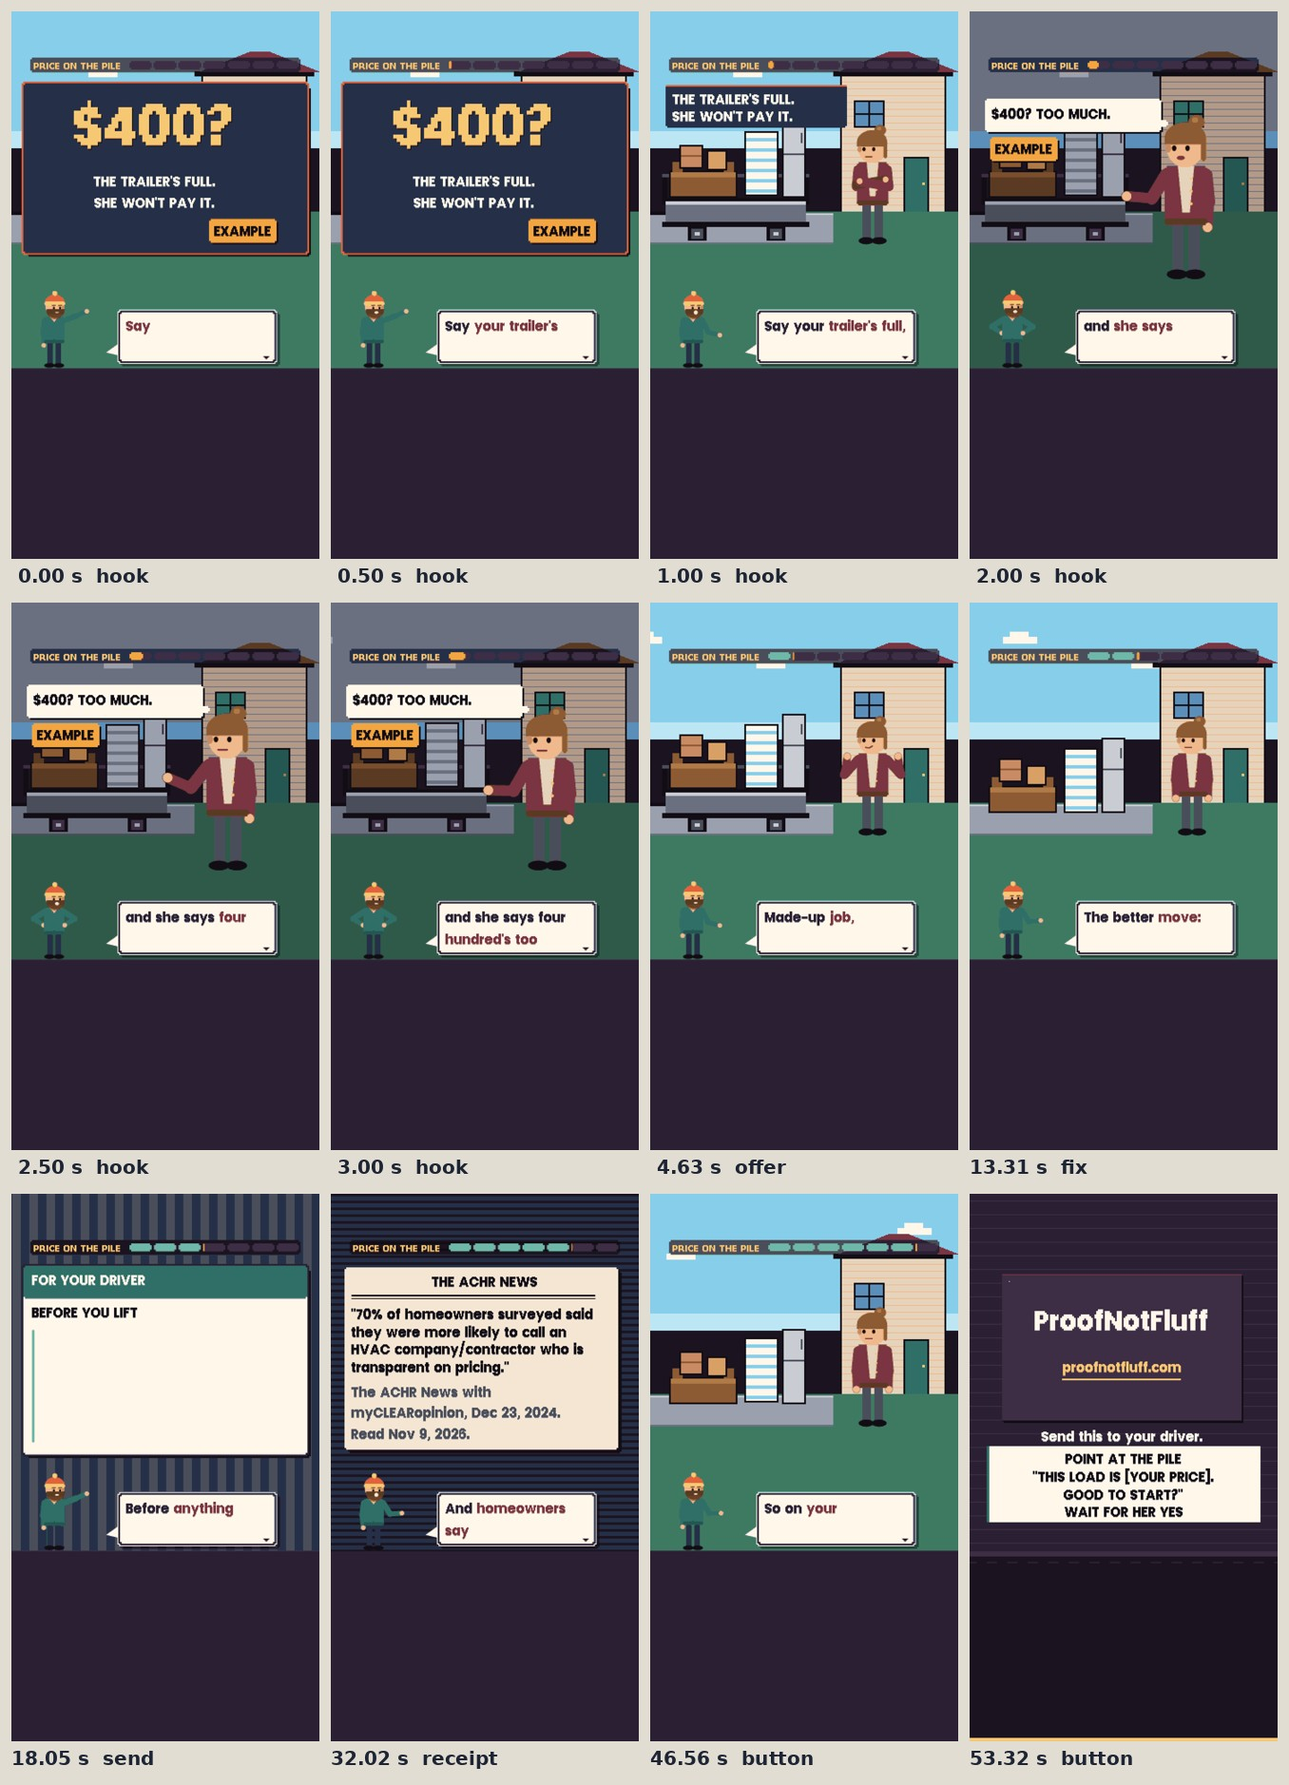
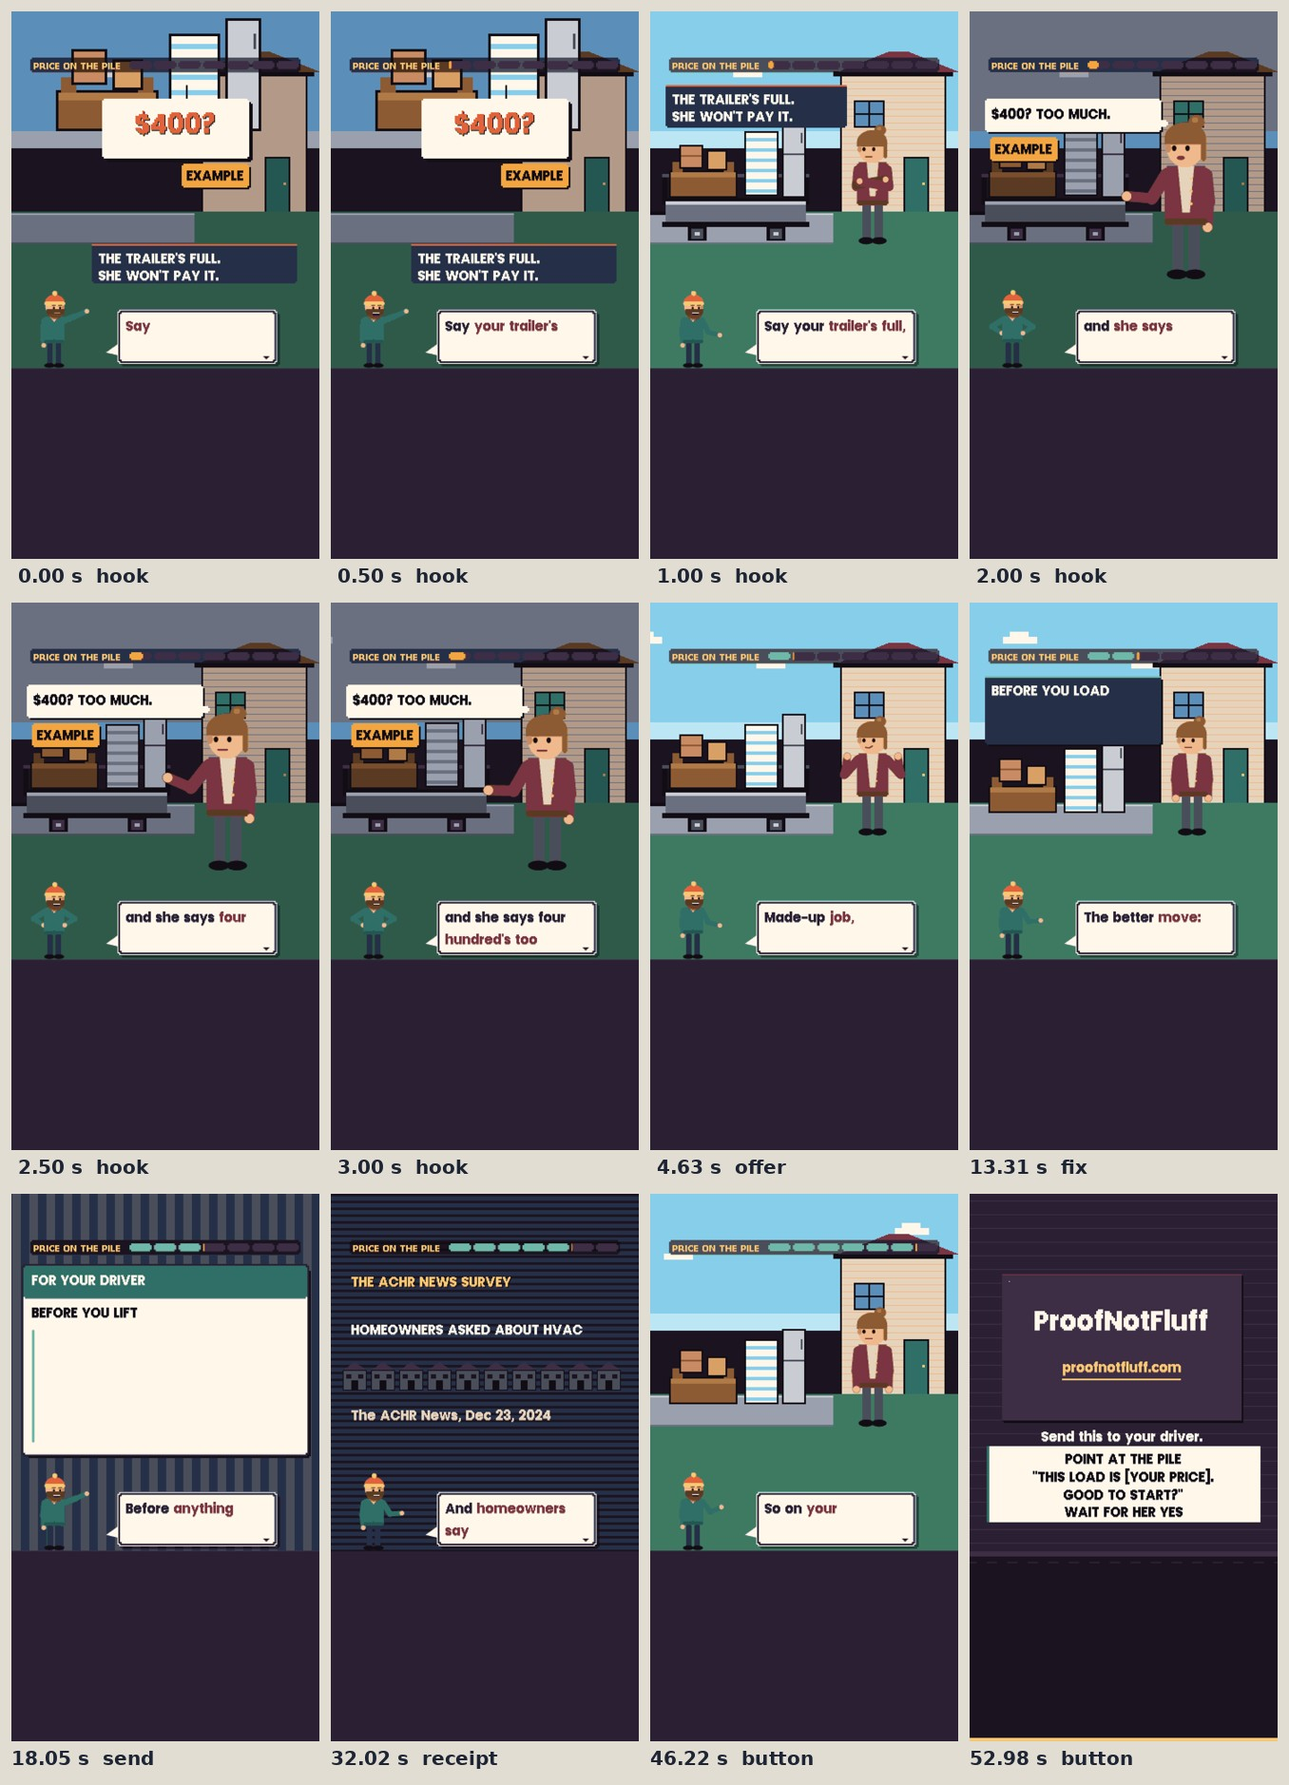
studio: price-on-the-pile fix round 1 (cover, plates, rewind label, send card order, survey as ten houses, no slot machine); take 5 re-roll (156 wpm)
Claude-Session: https://claude.ai/code/session_01XMn4eGCuTkqf6oHmaHm8Hx

diff --git a/video/studio/videos/2026-11-29-price-on-the-pile/04_scene/scene.js b/video/studio/videos/2026-11-29-price-on-the-pile/04_scene/scene.js
@@ -98,9 +98,17 @@ window.SCENE = {
     /* arms folded; on "four" her bubble with the made-up $400 and its EXAMPLE tag ---- */
     hook: (k, T) => {
       const d = px(k), tShop = 0.9, tFour = Math.max(tShop + 0.6, wordT(k, 'hook', /^four/i, 2.0) - 0.25);
-      drive(k, d); trailer(k, d, true);
+      drive(k, d); if (T >= tShop) trailer(k, d, true);
       if (T < tShop) {
-        k.coverBoard({hero: '$400?', lines: ["THE TRAILER'S FULL.", "SHE WON'T PAY IT."], example: true, y: 252, colors: {panel: '#253048', rim: '#E2633B', hero: GOLD}});
+        /* design r0: the cover is this lesson's own picture, the pile up close with its price tag, not a board */
+        d.P(0, 0, 360, 417, 'rgba(18,13,20,0.25)');
+        junk(k, d, 2, 44, (x, y, w, h, c) => d.P(40 + x * 3, 104 + y * 3, w * 3, h * 3, c));
+        k.shape(k.rectPts(612, 258, 6, 60, 0), {fill: INK, line: false});
+        k.shape(k.rectPts(330, 318, 516, 210, 0), {fill: INK, line: false}); k.shape(k.rectPts(318, 306, 516, 210, 0), {fill: CREAM, line: false});
+        k.text('$400?', 576, 330, {size: 160, color: RED, align: 'center', drop: INK});
+        k.exampleTag(834, 534, {right: true});
+        k.shape(k.rectPts(282, 816, 720, 138, 0), {fill: '#253048', line: false}); k.shape(k.rectPts(282, 816, 720, 6, 0), {fill: RED, line: false});
+        k.text("THE TRAILER'S FULL.", 306, 834, {size: 52, color: CREAM}); k.text("SHE WON'T PAY IT.", 306, 894, {size: 52, color: CREAM});
         return host(k, 'point');
       }
       k.cut(tShop);
@@ -127,7 +135,7 @@ window.SCENE = {
       k.client(780, 810, {role: 'homeowner', pose: 'argue', mood: 'smug', scale: 0.95, talk: T >= tTwo && T < tTwo + 1.2});
       const b = bubble(k, d, "I'LL GIVE YOU $200.", tTwo, 96);
       if (b) k.exampleTag(72, b.y + b.h + 18);
-      if (T >= tDump) k.slam('DUMP IT BACK?', 540, 560, tDump, {size: 80, color: GOLD, align: 'center', drop: INK, from: 0.4});
+      if (T >= tDump) stampBox(k, 'DUMP IT BACK?', 540, 480, tDump, {color: GOLD, bg: WINE, size: 66, freeze: 4});   /* render critic r0: on a plate */
       return host(k, T >= tDump ? 'shrug' : null);
     },
 
@@ -137,7 +145,10 @@ window.SCENE = {
       k.cut(t0);
       drive(k, d); pile(k, d);
       k.client(780, 810, {role: 'homeowner', pose: 'stand', mood: 'calm', scale: 0.95});
-      if (T >= tSay) { k.slam('SAY THE PRICE', 540, 300, tSay, {size: 80, color: GOLD, align: 'center', drop: INK, from: 0.4}); k.slam('AT THE PILE', 540, 400, tSay + 0.3, {size: 80, color: GOLD, align: 'center', drop: INK, from: 0.4}); }
+      /* viewer r0 and render critic r0: the rewind said on screen, the line on a plate left of the house */
+      k.shape(k.rectPts(60, 264, 618, 240, 0), {fill: INK, line: false}); k.shape(k.rectPts(54, 258, 618, 240, 0), {fill: '#253048', line: false}); k.shape(k.rectPts(54, 258, 618, 6, 0), {fill: TEAL, line: false});
+      k.text('BEFORE YOU LOAD', 78, 276, {size: 52, color: CREAM});
+      if (T >= tSay) { k.slam('SAY THE PRICE', 78, 342, tSay, {size: 66, color: GOLD, drop: INK, from: 0.4}); k.slam('AT THE PILE', 78, 418, tSay + 0.3, {size: 66, color: GOLD, drop: INK, from: 0.4}); }
       return host(k, T >= tSay ? 'point' : null);
     },
 
@@ -145,7 +156,7 @@ window.SCENE = {
     /* stripes behind it drift); no EXAMPLE tag on it (no made-up number on the card) ---- */
     send: (k, T) => {
       const t0 = k.S('send'), d = px(k), w = (re, dd) => wordT(k, 'send', re, dd) - 0.2;
-      const on = [w(/^point/i, 5.5), w(/^this$/i, 7.0), w(/^this$/i, 7.0) + 0.6, w(/^good/i, 8.2), w(/^wait/i, 9.4)];
+      const tThis = w(/^\W*this\b/i, 7.0), on = [w(/^point/i, 5.5), tThis, tThis + 0.6, Math.max(tThis + 0.7, w(/^\W*good/i, 8.2)), w(/^wait/i, 9.4)];   /* send r0, design r0: reading order */
       d.P(0, 0, 360, 417, '#2B3A4E'); { const so = d.F % 20; for (let x = so - 20; x < 360; x += 20) d.P(Math.max(0, x), 0, Math.max(0, Math.min(x + 10, 360) - Math.max(0, x)), 417, '#34465C'); }
       k.cut(t0);
       const c = k.sendCard({at: t0, who: 'FOR YOUR DRIVER', title: 'BEFORE YOU LIFT', lines: CARD, linesOn: on});
@@ -160,7 +171,7 @@ window.SCENE = {
       const so = (d.F >> 1) % 24;
       P(12, 84, 336, 90, INK); P(10, 82, 336, 90, DTEAL); for (let x = so - 24; x < 346; x += 24) P(Math.max(10, x), 82, 4, 90, '#357C73');
       const sh = T >= tFight && T < tFight + 0.25 ? ((d.F % 2) ? 2 : -2) : 0;
-      P(12 + sh, 184, 336, 90, INK); P(10 + sh, 182, 336, 90, WINE); for (let x = 346 - so; x > 10; x -= 24) P(Math.max(10, x), 182, 4, 90, '#8A3E4C');
+      if (T >= tPrice) { P(12 + sh, 184, 336, 90, INK); P(10 + sh, 182, 336, 90, WINE); for (let x = 346 - so; x > 10; x -= 24) P(Math.max(10, x), 182, 4, 90, '#8A3E4C'); }   /* design r0: no empty panel */
       k.text('UP FRONT', 72, 270, {size: 52, color: CREAM});
       k.text('A YES = A DEAL', 72, 360, {size: 80, color: GOLD, drop: INK});
       if (T >= tPrice) k.text('AFTER THE WORK', 72 + sh * 3, 570, {size: 52, color: CREAM});
@@ -168,26 +179,29 @@ window.SCENE = {
       return host(k, T >= tFight ? 'shrug' : null);
     },
 
-    /* ---- receipt: the ACHR News line on a clipping; on "Seventy" a plain cut to the slot machine (data.js) ---- */
+    /* ---- receipt (viewer r0, design r0): no clipping and no slot machine; the survey's own header, ten houses, seven ---- */
+    /* light up on "Seventy" with 70% (data.js), the line it measured, the source tag held the whole time ---- */
     receipt: (k, T) => {
-      const t0 = k.S('receipt'), d = px(k), n = k.data.numbers.pct, tSev = wordT(k, 'receipt', /^seventy/i, 6.0) - 0.3;
+      const t0 = k.S('receipt'), d = px(k), n = k.data.numbers.pct, tSev = wordT(k, 'receipt', /^seventy/i, 6.0) - 0.3, {P} = d;
+      const lit = Math.round(Number(n.value != null ? n.value : parseFloat(n.shown)) / 10);
+      k.cut(t0);
+      P(0, 0, 360, 417, '#253048'); for (let y = (d.F >> 2) % 8 - 8; y < 417; y += 8) P(0, Math.max(0, y), 360, 3, NIGHT);
       if (T < tSev) {
-        k.cut(t0);
-        d.P(0, 0, 360, 417, '#253048'); for (let y = (d.F >> 2) % 8 - 8; y < 417; y += 8) d.P(0, Math.max(0, y), 360, 3, NIGHT);
-        const up = d.ease(t0, 6, 30);
-        k.shape(k.rectPts(60, 270 + up * 3, 960, 640, 0), {fill: INK, line: false}); k.shape(k.rectPts(48, 258 + up * 3, 960, 640, 0), {fill: '#E4E0D6', line: false});
-        k.text('THE ACHR NEWS', 540, 276 + up * 3, {size: 66, color: INK, align: 'center'});
-        k.shape(k.rectPts(72, 354 + up * 3, 856, 6, 0), {fill: INK, line: false}); k.shape(k.rectPts(72, 366 + up * 3, 856, 3, 0), {fill: INK, line: false});
-        const ql = k.wrap('"' + n.shown + ' of homeowners surveyed said they were more likely to call an HVAC company/contractor who is transparent on pricing."', {size: 52}, 850);
-        ql.forEach((s, i) => k.text(s, 72, 390 + i * 62 + up * 3, {size: 52, color: INK}));
-        k.sourceTag('The ACHR News with myCLEARopinion, Dec 23, 2024. Read Nov 9, 2026.', 72, 390 + ql.length * 62 + 24 + up * 3, {color: SLATE});
-        return host(k);
+        k.text('THE ACHR NEWS SURVEY', 72, 276, {size: 66, color: GOLD, drop: INK});
+        k.text('HOMEOWNERS ASKED ABOUT HVAC', 72, 444, {size: 52, color: CREAM});
+      } else {
+        k.slam(n.shown, 540, 262, tSev, {size: 150, color: GOLD, drop: INK, from: 0.3, align: 'center'});
+        k.text('MORE LIKELY TO CALL', 72, 444, {size: 52, color: CREAM});
+        k.text('THE ONE UPFRONT ON PRICE', 72, 504, {size: 52, color: CREAM});
       }
-      k.cut(tSev);
-      const sym = String(n.shown).split('');
-      const tPct = wordT(k, 'receipt', /^percent/i, 7.0) - 0.2;
-      k.sets.slots({t0: tSev, stops: [tSev + 0.35, tSev + 0.6, Math.max(tSev + 0.85, tPct)], symbols: sym, label: 'MORE LIKELY TO CALL'});
-      return host(k, 'point');
+      for (let i = 0; i < 10; i++) {
+        const x = 14 + i * 33, y = 196, on = T >= tSev + i * 0.08 && i < lit;
+        P(x, y + 10, 28, 24, INK); P(x + 1, y + 11, 26, 22, on ? '#E6D3BC' : SLATE);
+        for (let r = 0; r < 10; r++) P(x + 14 - r * 1.4, y + r, r * 2.8, 1, on ? WINE : '#3D2E45');
+        P(x + 10, y + 22, 8, 12, INK); P(x + 4, y + 15, 6, 5, on ? GOLD : NIGHT); P(x + 18, y + 15, 6, 5, on ? GOLD : NIGHT);
+      }
+      k.sourceTag('The ACHR News, Dec 23, 2024', 72, 744, {color: SAND});
+      return host(k, T >= tSev ? 'point' : null);
     },
 
     /* ---- button: the drive before the job: the pile on the ground, the trailer empty; the two choices; the stamp ---- */
@@ -196,9 +210,9 @@ window.SCENE = {
       k.cut(t0);
       drive(k, d); pile(k, d);
       k.client(780, 810, {role: 'homeowner', pose: 'stand', mood: 'calm', scale: 0.95});
-      const card = (s, x, at, c) => { if (T < at) return; const up = d.ease(at, 4, 8); k.shape(k.rectPts(x + 6, 276 + up * 3, 432, 96, 0), {fill: INK, line: false}); k.shape(k.rectPts(x, 270 + up * 3, 432, 96, 0), {fill: c, line: false}); k.text(s, x + 216, 286 + up * 3, {size: 52, color: INK, align: 'center'}); };
+      const card = (s, x, at, c) => { if (T < at) return; const up = d.ease(at, 4, 8); k.shape(k.rectPts(x + 6, 396 + up * 3, 432, 96, 0), {fill: INK, line: false}); k.shape(k.rectPts(x, 390 + up * 3, 432, 96, 0), {fill: c, line: false}); k.text(s, x + 216, 406 + up * 3, {size: 52, color: INK, align: 'center'}); };
       card('ON THE PILE', 66, tPile, TEAL); card('ON THE TRAILER', 534, tTr, ORANGE);
-      if (T >= tDoes) stampBox(k, 'WHERE DOES YOUR PRICE GO?', 540, 600, tDoes, {color: GOLD, bg: WINE, size: 52, freeze: 4});
+      if (T >= tDoes) stampBox(k, 'WHERE DOES YOUR PRICE GO?', 540, 258, tDoes, {color: GOLD, bg: WINE, size: 52, freeze: 4});
       return host(k, T >= tTr ? 'shrug' : null);
     },
   },

diff --git a/video/studio/videos/2026-11-29-price-on-the-pile/03_cues/cues.js b/video/studio/videos/2026-11-29-price-on-the-pile/03_cues/cues.js
@@ -1,1 +1,1 @@
-window.CUES = {"schema": "pnf.studio.cues.v1", "source": "whisper medium.en int8, re-spelled from script.md", "music": {"id": "rooms", "level": 0.16, "tune": "bounce"}, "duration": 53.276, "cues": [{"id": "hook", "level": 0, "quote": "Say your trailer's full,", "sfx": "pop", "shift": 0.0, "pin": null, "text": "Cover, frame one: $400? / THE TRAILER'S FULL. / SHE WON'T PAY IT. on a cover board over the driveway, EXAMPLE beside the $400. At 0.9 s a plain cut to the driveway (the cover's two lines stay up on a banner until \"four\"): a house, a trailer heaped with junk (a couch, a mattress, boxes, a fridge), the homeowner (k.client, cross, arms folded) on the drive. On \"four\" a plain cut in to her, closer: her bubble: $400? TOO MUCH. with an EXAMPLE tag beside it.", "t": 0.0, "word": 0, "end": 4.029}, {"id": "offer", "level": 0, "quote": "Made-up job, but you've", "sfx": "blip", "shift": 0.0, "pin": null, "text": "The same driveway, closer: the full trailer, the homeowner (argue). On \"give\" her bubble: I'LL GIVE YOU $200. with an EXAMPLE tag. On \"dump\" a slam over the trailer: DUMP IT BACK?", "t": 4.029, "word": 11, "end": 12.708}, {"id": "fix", "level": 0, "quote": "The better move:", "sfx": "whoosh", "shift": 0.0, "pin": null, "text": "A plain cut to the same drive before the job: the pile still on the drive, nothing loaded yet, the homeowner calm. On \"say\" a slam over the pile: SAY THE PRICE, then AT THE PILE.", "t": 12.708, "word": 37, "end": 17.448}, {"id": "send", "level": 0, "quote": "Before anything gets", "sfx": "blip", "shift": 0.0, "pin": null, "text": "The send card on a plain cut, built line by line as each line is spoken: FOR YOUR DRIVER (the band) / BEFORE YOU LIFT (the title) from the cut; POINT AT THE PILE on \"point\"; \"THIS LOAD IS [YOUR PRICE]. on \"This\"; GOOD TO START?\" on \"Good\"; WAIT FOR HER YES on \"wait\". Full, it holds still about 3 s (through \"A yes before the work\"); only the stripes behind it drift. No EXAMPLE tag on the card (no made-up number on it).", "send": true, "t": 17.448, "word": 51, "end": 26.959}, {"id": "why", "level": 0, "quote": "is a deal.", "sfx": "stamp", "shift": 0.0, "pin": null, "text": "On \"is\" a plain cut to two rows: top, teal: UP FRONT / A YES = A DEAL; bottom, red, on \"price\": AFTER THE WORK, then A PRICE = A FIGHT. The bottom row shakes once on \"fight\".", "t": 26.959, "word": 79, "end": 31.425}, {"id": "receipt", "level": 0, "quote": "And homeowners say they", "sfx": "blip", "shift": 0.0, "pin": null, "text": "A newsprint clipping (THE ACHR NEWS masthead): \"70% of homeowners surveyed said they were more likely to call an HVAC company/contractor who is transparent on pricing.\" with its tag: The ACHR News with myCLEARopinion, Dec 23, 2024. Read Nov 9, 2026. On \"Seventy\" a plain cut to the slot machine: the reels stop on 7, 0, % (data.js) with the label MORE LIKELY TO CALL.", "t": 31.425, "word": 90, "end": 45.616}, {"id": "button", "level": 0, "quote": "So on your next", "sfx": "chime", "shift": 0.0, "pin": null, "text": "The driveway again, before the job: the pile on the drive, nothing loaded yet, the homeowner calm. The stamp on \"does\": WHERE DOES YOUR PRICE GO? Then two cards: ON THE PILE on \"pile\", ON THE TRAILER on \"trailer\". Holds to the end card.", "t": 45.616, "word": 127, "end": 53.276}]};
+window.CUES = {"schema": "pnf.studio.cues.v1", "source": "whisper medium.en int8, re-spelled from script.md", "music": {"id": "rooms", "level": 0.16, "tune": "bounce"}, "duration": 55.523, "cues": [{"id": "hook", "level": 0, "quote": "Say your trailer's full,", "sfx": "pop", "shift": 0.0, "pin": null, "text": "Cover, frame one: the junk pile up close (a couch, a mattress, boxes, a fridge) with a price tag hung on it: $400?, EXAMPLE beside it; under it a banner: THE TRAILER'S FULL. / SHE WON'T PAY IT. At 0.9 s a plain cut to the driveway (the cover's two lines stay up on a banner until \"four\"): a house, a trailer heaped with junk (a couch, a mattress, boxes, a fridge), the homeowner (k.client, cross, arms folded) on the drive. On \"four\" a plain cut in to her, closer: her bubble: $400? TOO MUCH. with an EXAMPLE tag beside it.", "t": 0.0, "word": 0, "end": 4.029}, {"id": "offer", "level": 0, "quote": "Made-up job, but you've", "sfx": "blip", "shift": 0.0, "pin": null, "text": "The same driveway, closer: the full trailer, the homeowner (argue). On \"give\" her bubble: I'LL GIVE YOU $200. with an EXAMPLE tag. On \"dump\" a stamp on a plate: DUMP IT BACK?", "t": 4.029, "word": 11, "end": 12.708}, {"id": "fix", "level": 0, "quote": "The better move:", "sfx": "whoosh", "shift": 0.0, "pin": null, "text": "A plain cut to the same drive before the job: the pile still on the drive, nothing loaded yet, the homeowner calm. A plate left of the house reads BEFORE YOU LOAD from the cut (the rewind said on screen); on \"say\": SAY THE PRICE, then AT THE PILE.", "t": 12.708, "word": 37, "end": 17.448}, {"id": "send", "level": 0, "quote": "Before anything gets", "sfx": "blip", "shift": 0.0, "pin": null, "text": "The send card on a plain cut, built line by line as each line is spoken: FOR YOUR DRIVER (the band) / BEFORE YOU LIFT (the title) from the cut; POINT AT THE PILE on \"point\"; \"THIS LOAD IS [YOUR PRICE]. on \"This\"; GOOD TO START?\" on \"Good\"; WAIT FOR HER YES on \"wait\". Full, it holds still about 3 s (through \"A yes before the work\"); only the stripes behind it drift. No EXAMPLE tag on the card (no made-up number on it).", "send": true, "t": 17.448, "word": 51, "end": 26.959}, {"id": "why", "level": 0, "quote": "is a deal.", "sfx": "stamp", "shift": 0.0, "pin": null, "text": "On \"is\" a plain cut to two rows: top, teal: UP FRONT / A YES = A DEAL; bottom, red, on \"price\": AFTER THE WORK, then A PRICE = A FIGHT. The bottom row shakes once on \"fight\".", "t": 26.959, "word": 79, "end": 31.425}, {"id": "receipt", "level": 0, "quote": "And homeowners say they", "sfx": "blip", "shift": 0.0, "pin": null, "text": "A plain cut to the survey: THE ACHR NEWS SURVEY / HOMEOWNERS ASKED ABOUT HVAC over a row of ten houses, dark; the tag The ACHR News, Dec 23, 2024 under them the whole time. On \"Seventy\" 70% (data.js) lands and seven of the ten houses light up one by one; the lines read MORE LIKELY TO CALL / THE ONE UPFRONT ON PRICE.", "t": 31.425, "word": 90, "end": 47.863}, {"id": "button", "level": 0, "quote": "So on your next", "sfx": "chime", "shift": 0.0, "pin": null, "text": "The driveway again, before the job: the pile on the drive, nothing loaded yet, the homeowner calm. The stamp on \"does\", up top: WHERE DOES YOUR PRICE GO? Then two cards under it: ON THE PILE on \"pile\", ON THE TRAILER on \"trailer\". Holds to the end card.", "t": 47.863, "word": 132, "end": 55.523}]};

diff --git a/video/studio/videos/2026-11-29-price-on-the-pile/02_transcript/mouth.js b/video/studio/videos/2026-11-29-price-on-the-pile/02_transcript/mouth.js
@@ -1,1 +1,1 @@
[2 lines of base64/hex data omitted]

diff --git a/video/studio/videos/2026-11-29-price-on-the-pile/03_cues/cues.md b/video/studio/videos/2026-11-29-price-on-the-pile/03_cues/cues.md
@@ -3,19 +3,19 @@
 music: rooms bounce
 
 ## hook "Say your trailer's full," [sfx: pop]
-Cover, frame one: $400? / THE TRAILER'S FULL. / SHE WON'T PAY IT. on a cover board over the driveway, EXAMPLE beside
-the $400.
+Cover, frame one: the junk pile up close (a couch, a mattress, boxes, a fridge) with a price tag hung on it: $400?,
+EXAMPLE beside it; under it a banner: THE TRAILER'S FULL. / SHE WON'T PAY IT.
 At 0.9 s a plain cut to the driveway (the cover's two lines stay up on a banner until "four"): a house, a trailer heaped with junk (a couch, a mattress, boxes, a fridge), the
 homeowner (k.client, cross, arms folded) on the drive. On "four" a plain cut in to her, closer: her bubble: $400? TOO
 MUCH. with an EXAMPLE tag beside it.
 
 ## offer "Made-up job, but you've" [sfx: blip]
 The same driveway, closer: the full trailer, the homeowner (argue). On "give" her bubble: I'LL GIVE YOU $200.
-with an EXAMPLE tag. On "dump" a slam over the trailer: DUMP IT BACK?
+with an EXAMPLE tag. On "dump" a stamp on a plate: DUMP IT BACK?
 
 ## fix "The better move:" [sfx: whoosh]
-A plain cut to the same drive before the job: the pile still on the drive, nothing loaded yet, the homeowner calm. On
-"say" a slam over the pile: SAY THE PRICE, then AT THE PILE.
+A plain cut to the same drive before the job: the pile still on the drive, nothing loaded yet, the homeowner calm. A plate
+left of the house reads BEFORE YOU LOAD from the cut (the rewind said on screen); on "say": SAY THE PRICE, then AT THE PILE.
 
 ## send "Before anything gets" [send] [sfx: blip]
 The send card on a plain cut, built line by line as each line is spoken: FOR YOUR DRIVER (the band) / BEFORE YOU LIFT
@@ -28,11 +28,10 @@ On "is" a plain cut to two rows: top, teal: UP FRONT / A YES = A DEAL; bottom, r
 The bottom row shakes once on "fight".
 
 ## receipt "And homeowners say they" [sfx: blip]
-A newsprint clipping (THE ACHR NEWS masthead): "70% of homeowners surveyed said they were more likely to call an HVAC
-company/contractor who is transparent on pricing." with its tag: The ACHR News with myCLEARopinion, Dec 23, 2024.
-Read Nov 9, 2026.
-On "Seventy" a plain cut to the slot machine: the reels stop on 7, 0, % (data.js) with the label MORE LIKELY TO CALL.
+A plain cut to the survey: THE ACHR NEWS SURVEY / HOMEOWNERS ASKED ABOUT HVAC over a row of ten houses, dark; the tag
+The ACHR News, Dec 23, 2024 under them the whole time. On "Seventy" 70% (data.js) lands and seven of the ten houses
+light up one by one; the lines read MORE LIKELY TO CALL / THE ONE UPFRONT ON PRICE.
 
 ## button "So on your next" [sfx: chime]
-The driveway again, before the job: the pile on the drive, nothing loaded yet, the homeowner calm. The stamp on "does": WHERE DOES YOUR PRICE GO?
-Then two cards: ON THE PILE on "pile", ON THE TRAILER on "trailer". Holds to the end card.
+The driveway again, before the job: the pile on the drive, nothing loaded yet, the homeowner calm. The stamp on "does", up top: WHERE DOES YOUR PRICE GO?
+Then two cards under it: ON THE PILE on "pile", ON THE TRAILER on "trailer". Holds to the end card.
